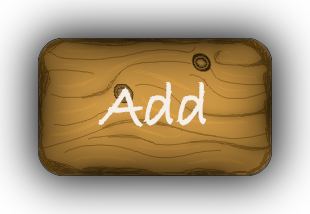
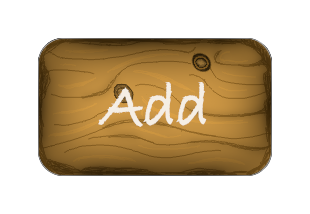
button_presses_works

diff --git a/user_interface.py b/user_interface.py
@@ -74,42 +74,44 @@ def read_data():
 class buttons(pg.sprite.Sprite):
     def __init__(self, pos_x, pos_y, initial_width, initial_height, image, window, scale_factor, image_clicked = 0):
         pg.sprite.Sprite.__init__(self)
-        self.image = image
-        self.none_clicked = image
         self.image_clicked = image_clicked
         self.start_time = time.time()
         self.start_b = False
-        self.image = pg.transform.smoothscale(self.image, (initial_width*scale_factor, initial_height*scale_factor))
+        if self.image_clicked != 0: 
+            self.image_clicked = pg.transform.smoothscale(self.image_clicked, (initial_width*scale_factor, initial_height*scale_factor))
+        self.image = pg.transform.smoothscale(image, (initial_width*scale_factor, initial_height*scale_factor))
         self.rect = self.image.get_rect()
+        self.none_clicked = self.image
         self.rect.topleft = [pos_x*scale_factor, pos_y*scale_factor]
         self.window = window
 
-    def draw_click(self, mouse_pos=None):
-        if self.image_clicked != 0:
+    def draw_click(self, mouse_pos=None, index=None):
+        print(index)
+        if index != 4:
             self.check_time = time.time()
             if mouse_pos:
                 self.image = self.image_clicked
-                if self.start_b == True:
-                    self.draw()
-                    pg.display.update()
-                    time.sleep(0.25)
+                self.draw()
+                pg.display.update()
+                time.sleep(0.20)
                 self.start_time = time.time()
-                if self.start_time - self.check_time > 0.25: 
+                if self.start_time - self.check_time > 0.15: 
                     self.image = self.none_clicked
                     if self.start_b == True: 
                         return False
                     else: 
                         return True
+        else: 
+            return True
 
     def button_filter(self, button_index):
         self.start_b = False
         print("Button index:", button_index)
         if button_index == 0: 
             self.start_b = True
-       
-
-    def draw(self): 
-        self.window.blit(self.image, (self.rect.topleft[0], self.rect.topleft[1]))
+    
+    def draw(self):
+        self.window.blit(self.image, (int(self.rect.topleft[0]), int(self.rect.topleft[1])))
 
 # This function will create all the objects for the ui 
 def create_buttons(ui_button_group, WIN, scale_factor): 
@@ -124,8 +126,8 @@ def create_buttons(ui_button_group, WIN, scale_factor):
     start_button = pg.image.load("Assets/ui_assets/start_button.png").convert_alpha()
     start_button_clicked = pg.image.load("Assets/ui_assets/start_button_clicked.png").convert_alpha()
     table_sign = pg.image.load("Assets/ui_assets/table_sign.png").convert_alpha()
-    add_button_ob = buttons(500, 800-214, 310, 214, add_button, WIN, scale_factor, add_button_clicked)
-    arrow_button_ob = buttons(1025, 137, 120, 105, arrow_button, WIN, scale_factor, arrow_button_clicked)
+    add_button_ob = buttons(500, 800-214, 305, 209, add_button, WIN, scale_factor, add_button_clicked)
+    arrow_button_ob = buttons(1010, 123, 163, 134, arrow_button, WIN, scale_factor, arrow_button_clicked)
     remove_button_ob = buttons(1221, 10, 300, 142, remove_button, WIN, scale_factor, remove_button_clicked)
     start_button_ob = buttons(100, 800-228, 325, 231, start_button, WIN, scale_factor, start_button_clicked)
     table_sign_ob = buttons(1100, 800-688, 548, 688, table_sign, WIN, scale_factor)

diff --git a/main.py b/main.py
@@ -63,7 +63,7 @@ player_HEIGHT = 40/3 * scale_factor
 
 # player = pg.Rect(0, 0, player_WIDTH, player_HEIGHT)
 
-GREEN_WORLD = pg.transform.scale(pg.image.load('Assets/GreenWorld2.PNG').convert(), (WIDTH, HEIGHT)) 
+GREEN_WORLD = pg.transform.scale(pg.image.load('Assets/GreenWorld3.PNG').convert(), (WIDTH, HEIGHT)) 
 large_stone_image = pg.image.load("Assets/large_stone_3.PNG").convert_alpha()
 sprite_sheet_image = pg.image.load("Assets/walking_assets_player_friendly_1.png").convert_alpha()
 sprite_sheet_image_fall = pg.image.load("Assets/hit_fence_assets_done.png").convert_alpha()
@@ -529,7 +529,7 @@ def draw_lose(player, green_world_move, first_lvl_group, start_line, player_heal
                     terran_large_stone, action_run, frame_run, new_x, new_y, animation_list, 
                     point_carrots_group, point_count, user_interface, ui_button_group)
     
-    draw_text = LOSE_FONT.render("LOSER!", 1, RED)
+    draw_text = LOSE_FONT.render("LOSER!", 1, BLACK)
     WIN.blit(draw_text, (WIDTH/2 - draw_text.get_width() /
                          2, HEIGHT/2 - draw_text.get_height()/2))
     pg.display.update()
@@ -638,9 +638,8 @@ def main():
                         if sprite.rect.collidepoint(event.pos):
                             index = ui_button_group.sprites().index(sprite)
                             sprite.button_filter(index)
-                            user_interface = sprite.draw_click(event.pos)
+                            user_interface = sprite.draw_click(event.pos, index)
                             #################### work here ################ these functions 
-
 
         # Draw if you lose
         if player_health <= 0: 
@@ -690,6 +689,7 @@ def main():
             main()
         if keys_pressed[pg.K_ESCAPE]:
             user_interface = True
+            main()
         if keys_pressed[pg.K_p]:
             # Makes sure the user interface is not running
             if not user_interface: 

diff --git a/update_and_hit_func.py b/update_and_hit_func.py
@@ -30,7 +30,6 @@ def sprite_movement(first_lvl_group):
 
 def ui_draw(ui_button_group):
     for sprite in ui_button_group:
-        sprite.draw_click()
         sprite.draw()
 
 def draw_pause(WIN, WHITE, WIDTH, HEIGHT, PAUSED_FONT):
